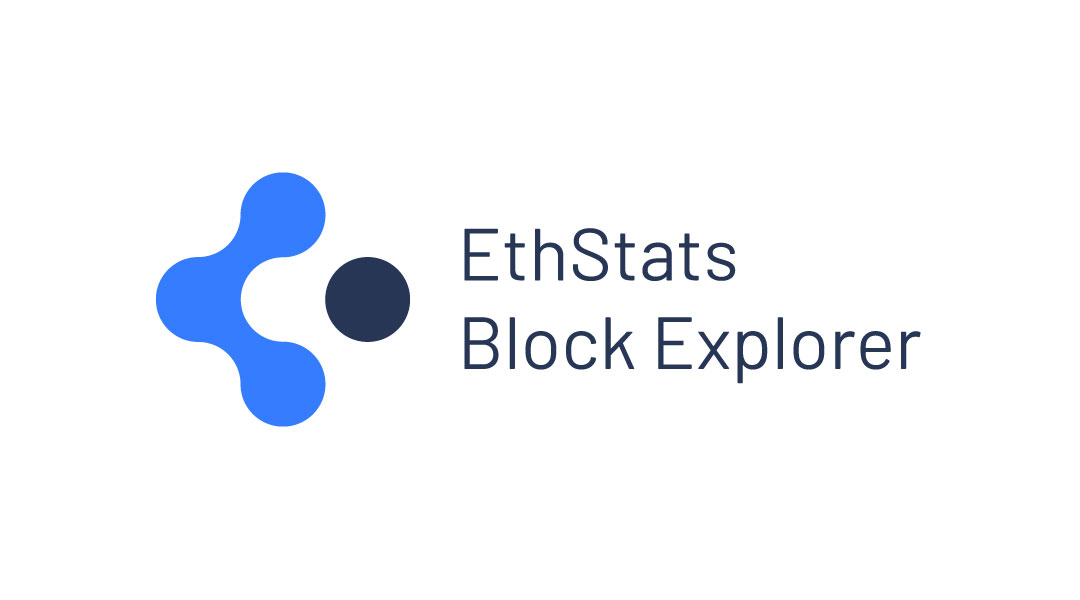
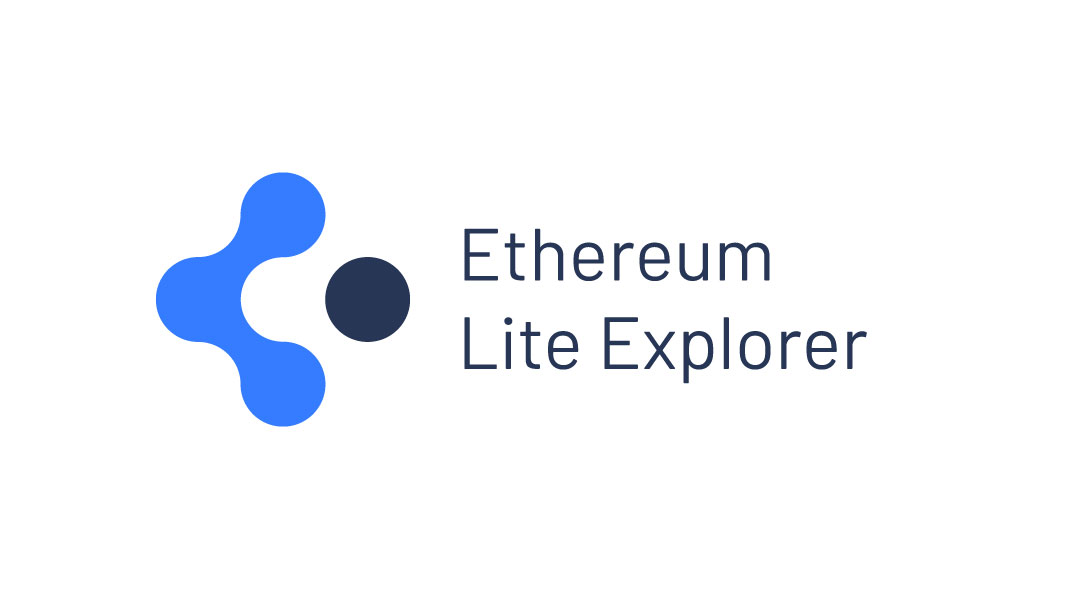
Update en-US.json (#26)
* Update en-US.json

* Update zh-CN.json

* updated docs

* add cname

* aaannnndddd...remove cname

* Fix dropdown urls creation (#27)

* Fix edgecase when infura id is passed but no url is passed

* Fix TSLint error, remove infura v1 case, treat edgecase: no node url but infura proj id

* update titles

* updated og thumb

* added configurable base url

* udpated notice

Changed region(s): [[0.4278, 0.51, 0.8556, 0.63], [0.5194, 0.36, 0.7333, 0.48]]

diff --git a/src/app/AppConfig.ts b/src/app/AppConfig.ts
@@ -9,7 +9,7 @@ interface IAppConfigData {
     APP_SENTRY_APPNAME?: string;
     APP_SENTRY_DSN?: string;
     APP_SENTRY_ENV?: string;
-    APP_NODE_URL?: string;
+    APP_NODE_URL: string;
     APP_INFURA_PROJECT_ID?: string;
     APP_INFURA_IPFS_URL_MASK?: string;
     APP_ROUTER_HISTORY_MODE?: boolean;
@@ -91,81 +91,70 @@ export class AppConfig {
         return this.data.APP_INFURA_PROJECT_ID !== undefined;
     }
 
+    getInfuraProjectId() {
+        return this.data.APP_INFURA_PROJECT_ID;
+    }
+
     checkForNodeURL() {
         return this.data.APP_NODE_URL !== undefined;
     }
 
+    getNodeUrl() {
+        return this.data.APP_NODE_URL;
+    }
+
     createFieldsArray() {
-        if (!this.checkForNodeURL()) {
-            return [{
-                key: "Mainnet",
-                label: "Mainnet",
-                value: `https://mainnet.infura.io/`
-            },
-            {
-                key: "Kovan",
-                label: "Kovan",
-                value: `https://kovan.infura.io/`
-            },
-            {
-                key: "Rinkeby",
-                label: "Rinkeby",
-                value: `https://rinkeby.infura.io/`
-            },
-            {
-                key: "Ropsten",
-                label: "Ropsten",
-                value: `https://ropsten.infura.io/`
-            },
-            {
-                key: "Görli",
-                label: "Görli",
-                value: "https://goerli.infura.io/"
-            }];
-        }
         if (this.checkForInfuraProjectId() && this.data.APP_INFURA_PROJECT_ID !== "") {
             let standardArray = [{
                 key: "Mainnet",
                 label: "Mainnet",
-                value: `https://mainnet.infura.io/v3/${this.data.APP_INFURA_PROJECT_ID}`
+                value: `https://mainnet.infura.io/v3/${this.getInfuraProjectId()}`
             },
             {
                 key: "Kovan",
                 label: "Kovan",
-                value: `https://kovan.infura.io/v3/${this.data.APP_INFURA_PROJECT_ID}`
+                value: `https://kovan.infura.io/v3/${this.getInfuraProjectId()}`
             },
             {
                 key: "Rinkeby",
                 label: "Rinkeby",
-                value: `https://rinkeby.infura.io/v3/${this.data.APP_INFURA_PROJECT_ID}`
+                value: `https://rinkeby.infura.io/v3/${this.getInfuraProjectId()}`
             },
             {
                 key: "Ropsten",
                 label: "Ropsten",
-                value: `https://ropsten.infura.io/v3/${this.data.APP_INFURA_PROJECT_ID}`
+                value: `https://ropsten.infura.io/v3/${this.getInfuraProjectId()}`
             },
             {
                 key: "Görli",
                 label: "Görli",
-                value: `https://goerli.infura.io/v3/${this.data.APP_INFURA_PROJECT_ID}`
+                value: `https://goerli.infura.io/v3/${this.getInfuraProjectId()}`
             }];
-            if (this.data.APP_NODE_URL !== undefined && this.data.APP_NODE_URL.includes("infura")) {
+            if (this.checkForNodeURL() && this.getNodeUrl().includes("infura")) {
                 return standardArray;
-            } else if (this.data.APP_NODE_URL !== undefined) {
+            } else if (this.checkForNodeURL()) {
                 standardArray.push({
                     key: this.data.APP_NODE_URL,
                     label: this.data.APP_NODE_URL,
                     value: this.data.APP_NODE_URL
                 });
                 return standardArray;
+            } else {
+                return standardArray;
             }
-        } else if (this.data.APP_NODE_URL !== undefined) {
-            return [{
-                key: this.data.APP_NODE_URL,
-                label: this.data.APP_NODE_URL,
-                value: this.data.APP_NODE_URL
-            }];
+        } else {
+            if (this.checkForNodeURL()) {
+                return [{
+                    key: this.data.APP_NODE_URL,
+                    label: this.data.APP_NODE_URL,
+                    value: this.data.APP_NODE_URL
+                }];
+            }
         }
-        return [];
+        return [{
+            key: "",
+            label: "",
+            value: ""
+        }];
     }
 }

diff --git a/src/public/index.html b/src/public/index.html
@@ -5,11 +5,11 @@
         <meta charset="utf-8" />
         <meta name="viewport" content="width=device-width, initial-scale=1.0">
 
-        <meta property="og:url" content="https://ethereum.ethstats.io">
+        <meta property="og:url" content="<%= htmlWebpackPlugin.options.baseUrl %>">
         <meta property="og:title" content="<%= htmlWebpackPlugin.options.title %>">
         <meta property="og:description" content="<%= htmlWebpackPlugin.options.description %>">
         <meta property="og:type" content="website">
-        <meta property="og:image" content="https://ethereum.ethstats.io/img/og-image.jpg">
+        <meta property="og:image" content="<%= htmlWebpackPlugin.options.baseUrl %>img/og-image.jpg">
         <meta property="og:image:width" content="1080">
         <meta property="og:image:height" content="600">
 

diff --git a/src/app/page/dashboard/DashboardContent.tsx b/src/app/page/dashboard/DashboardContent.tsx
@@ -91,7 +91,7 @@ export class DashboardContent extends React.Component<IDashboardContentProps> {
         return <DashboardContentCenter>
             <Title>{ tr.get("dashboardView.title") }</Title>
             <SubTitle>{tr.get("dashboardView.subTitle")}
-                <GithubLink href="https://github.com/Alethio/ethstats-lite-explorer"
+                <GithubLink href="https://github.com/Alethio/ethereum-lite-explorer"
                     target="_blank"
                 >
                     {tr.get("dashboardView.github")}

diff --git a/webpack.config.js b/webpack.config.js
@@ -88,7 +88,8 @@ function getConfig(isProduction) {
             hash: true,
             title: translation["title"],
             description: translation["description"],
-            template: path.join(sourcePublicRoot, "index.html")
+            template: path.join(sourcePublicRoot, "index.html"),
+            baseUrl: process.env.APP_BASE_URL || "https://lite-explorer.aleth.io/"
         }),
         new InterpolateHtmlPlugin({
             "APP_DEFAULT_LOCALE": defaultLocale

diff --git a/README.md b/README.md
@@ -1,15 +1,15 @@
-# EthStats Lite Explorer
+# Ethereum Lite Explorer by Alethio
 The **Lite Explorer**  is a client-side only web application that connects directly to a [Ethereum JSON RPC](https://github.com/ethereum/wiki/wiki/JSON-RPC) compatible node.
 This means you can have your own private Ethereum Explorer should you wish so.
 No need for servers, hosting or trusting any third parties to display chain data.
 
-[![CircleCI](https://circleci.com/gh/Alethio/ethstats-lite-explorer.svg?style=svg)](https://circleci.com/gh/Alethio/ethstats-lite-explorer)
+[![CircleCI](https://circleci.com/gh/Alethio/ethereum-lite-explorer.svg?style=svg)](https://circleci.com/gh/Alethio/ethereum-lite-explorer)
 
 > **WARNING v1.x.x is a breaking update from previous v0.x.x releases**
 
 > NOTICE
 > This is a big piece of work in progress.
-> Please report any bugs using Github's [issues](https://github.com/Alethio/ethstats-lite-explorer/issues/)
+> Please report any bugs using Github's [issues](https://github.com/Alethio/ethereum-lite-explorer/issues/)
 
 ## Contents
 - [Short Term Roadmap](#short-term-roadmap)
@@ -34,9 +34,6 @@ No need for servers, hosting or trusting any third parties to display chain data
 
 
 ## Short Term Roadmap
-- 1.0 - React-ified
-    * [x] Release [EthStats](https://ethstats.io/) React primitive components
-    * [x] Migrate app to React
 - Post 1.0
     * [ ] Plugins System
 
@@ -105,14 +102,20 @@ You can set any of the following variables either in config.dev.json, config.jso
 | APP_ROUTER_HISTORY_MODE | When `false` (default mode) the explorer uses the URL hash for routing. Works with all browsers/servers, including those that do not support HTML5 History API. `true` requires HTML5 History API and server config to redirect all requests that do not have a file to index.html so they are picked by the react router. |
 | APP_NETWORK_MONITOR_URL | Setting this variable to an URL will add a menu item in the sidebar with a link to the set url |
 
-> NOTICE: if `APP_NODE_URL` and `APP_INFURA_PROJECT_ID` are both missing, the explorer will start with the Infura endpoints in anonymous mode (https://mainnet.infura.io/, https://kovan.infura.io/, ...).
+> NOTICE: you must specify at least one of `APP_NODE_URL` or `APP_INFURA_PROJECT_ID`.
+
+Only when building you also have access to
+| ENV var | Description |
+| --- | --- |
+| APP_BASE_URL | Deployment URL. This used in `index.html` for `og:tags`  |
+
 
 ### Running in Docker
 You can run the Lite Explorer in Docker without having to get the source code and build it.
 The simplest command to run i is
 
 ```sh
-$ docker run -p 80:80 alethio/ethstats-lite-explorer
+$ docker run -p 80:80 alethio/ethereum-lite-explorer
 ```
 which will start a container on port 80 of your computer with a nginx embedded to serve the pre-build explorer. You can then open [localhost](http://localhost) in your browser to use it.
 
@@ -126,14 +129,14 @@ docker \
     -p 80:80 \
     -e APP_INFURA_PROJECT_ID=your-infura-proj-id \
     -e APP_NODE_URL=https://kovan.infura.io \
-    alethio/ethstats-lite-explorer
+    alethio/ethereum-lite-explorer
 ```
 
 ### Setup/Build Instructions
 Clone the explorer in a folder of your choosing
 ```sh
-$ git clone https://github.com/Alethio/ethstats-lite-explorer.git
-$ cd ethstats-lite-explorer
+$ git clone https://github.com/Alethio/ethereum-lite-explorer.git
+$ cd ethereum-lite-explorer
 ```
 Install npm packages
 ```sh

diff --git a/CONTRIBUTING.md b/CONTRIBUTING.md
@@ -1,4 +1,4 @@
-# Contributing to ethstats-lite-explorer
+# Contributing to ethereum-lite-explorer
 We love your input! We want to make contributing to this project as easy and transparent as possible, whether it's:
 
 - Reporting a bug
@@ -19,8 +19,8 @@ Pull requests are the best way to propose changes to the codebase (we use [Githu
 5. Make sure your code lints.
 6. Issue that pull request!
 
-### Report bugs using Github's [issues](https://github.com/Alethio/ethstats-lite-explorer/issues/)
-We use GitHub issues to track public bugs. Report a bug by [opening a new issue](https://github.com/Alethio/ethstats-lite-explorer/issues/new); it's that easy!
+### Report bugs using Github's [issues](https://github.com/Alethio/ethereum-lite-explorer/issues/)
+We use GitHub issues to track public bugs. Report a bug by [opening a new issue](https://github.com/Alethio/ethereum-lite-explorer/issues/new); it's that easy!
 
 **Great Bug Reports** tend to have:
 
@@ -38,7 +38,7 @@ We use GitHub issues to track public bugs. Report a bug by [opening a new issue]
 ## License
 By contributing, you agree that your contributions will be licensed under its [MIT License](LICENSE.md).
 
-In short, when you submit code changes, your submissions are understood to be under the same license that covers this project. 
+In short, when you submit code changes, your submissions are understood to be under the same license that covers this project.
 
 Feel free to contact the maintainers if that's a concern.
 
